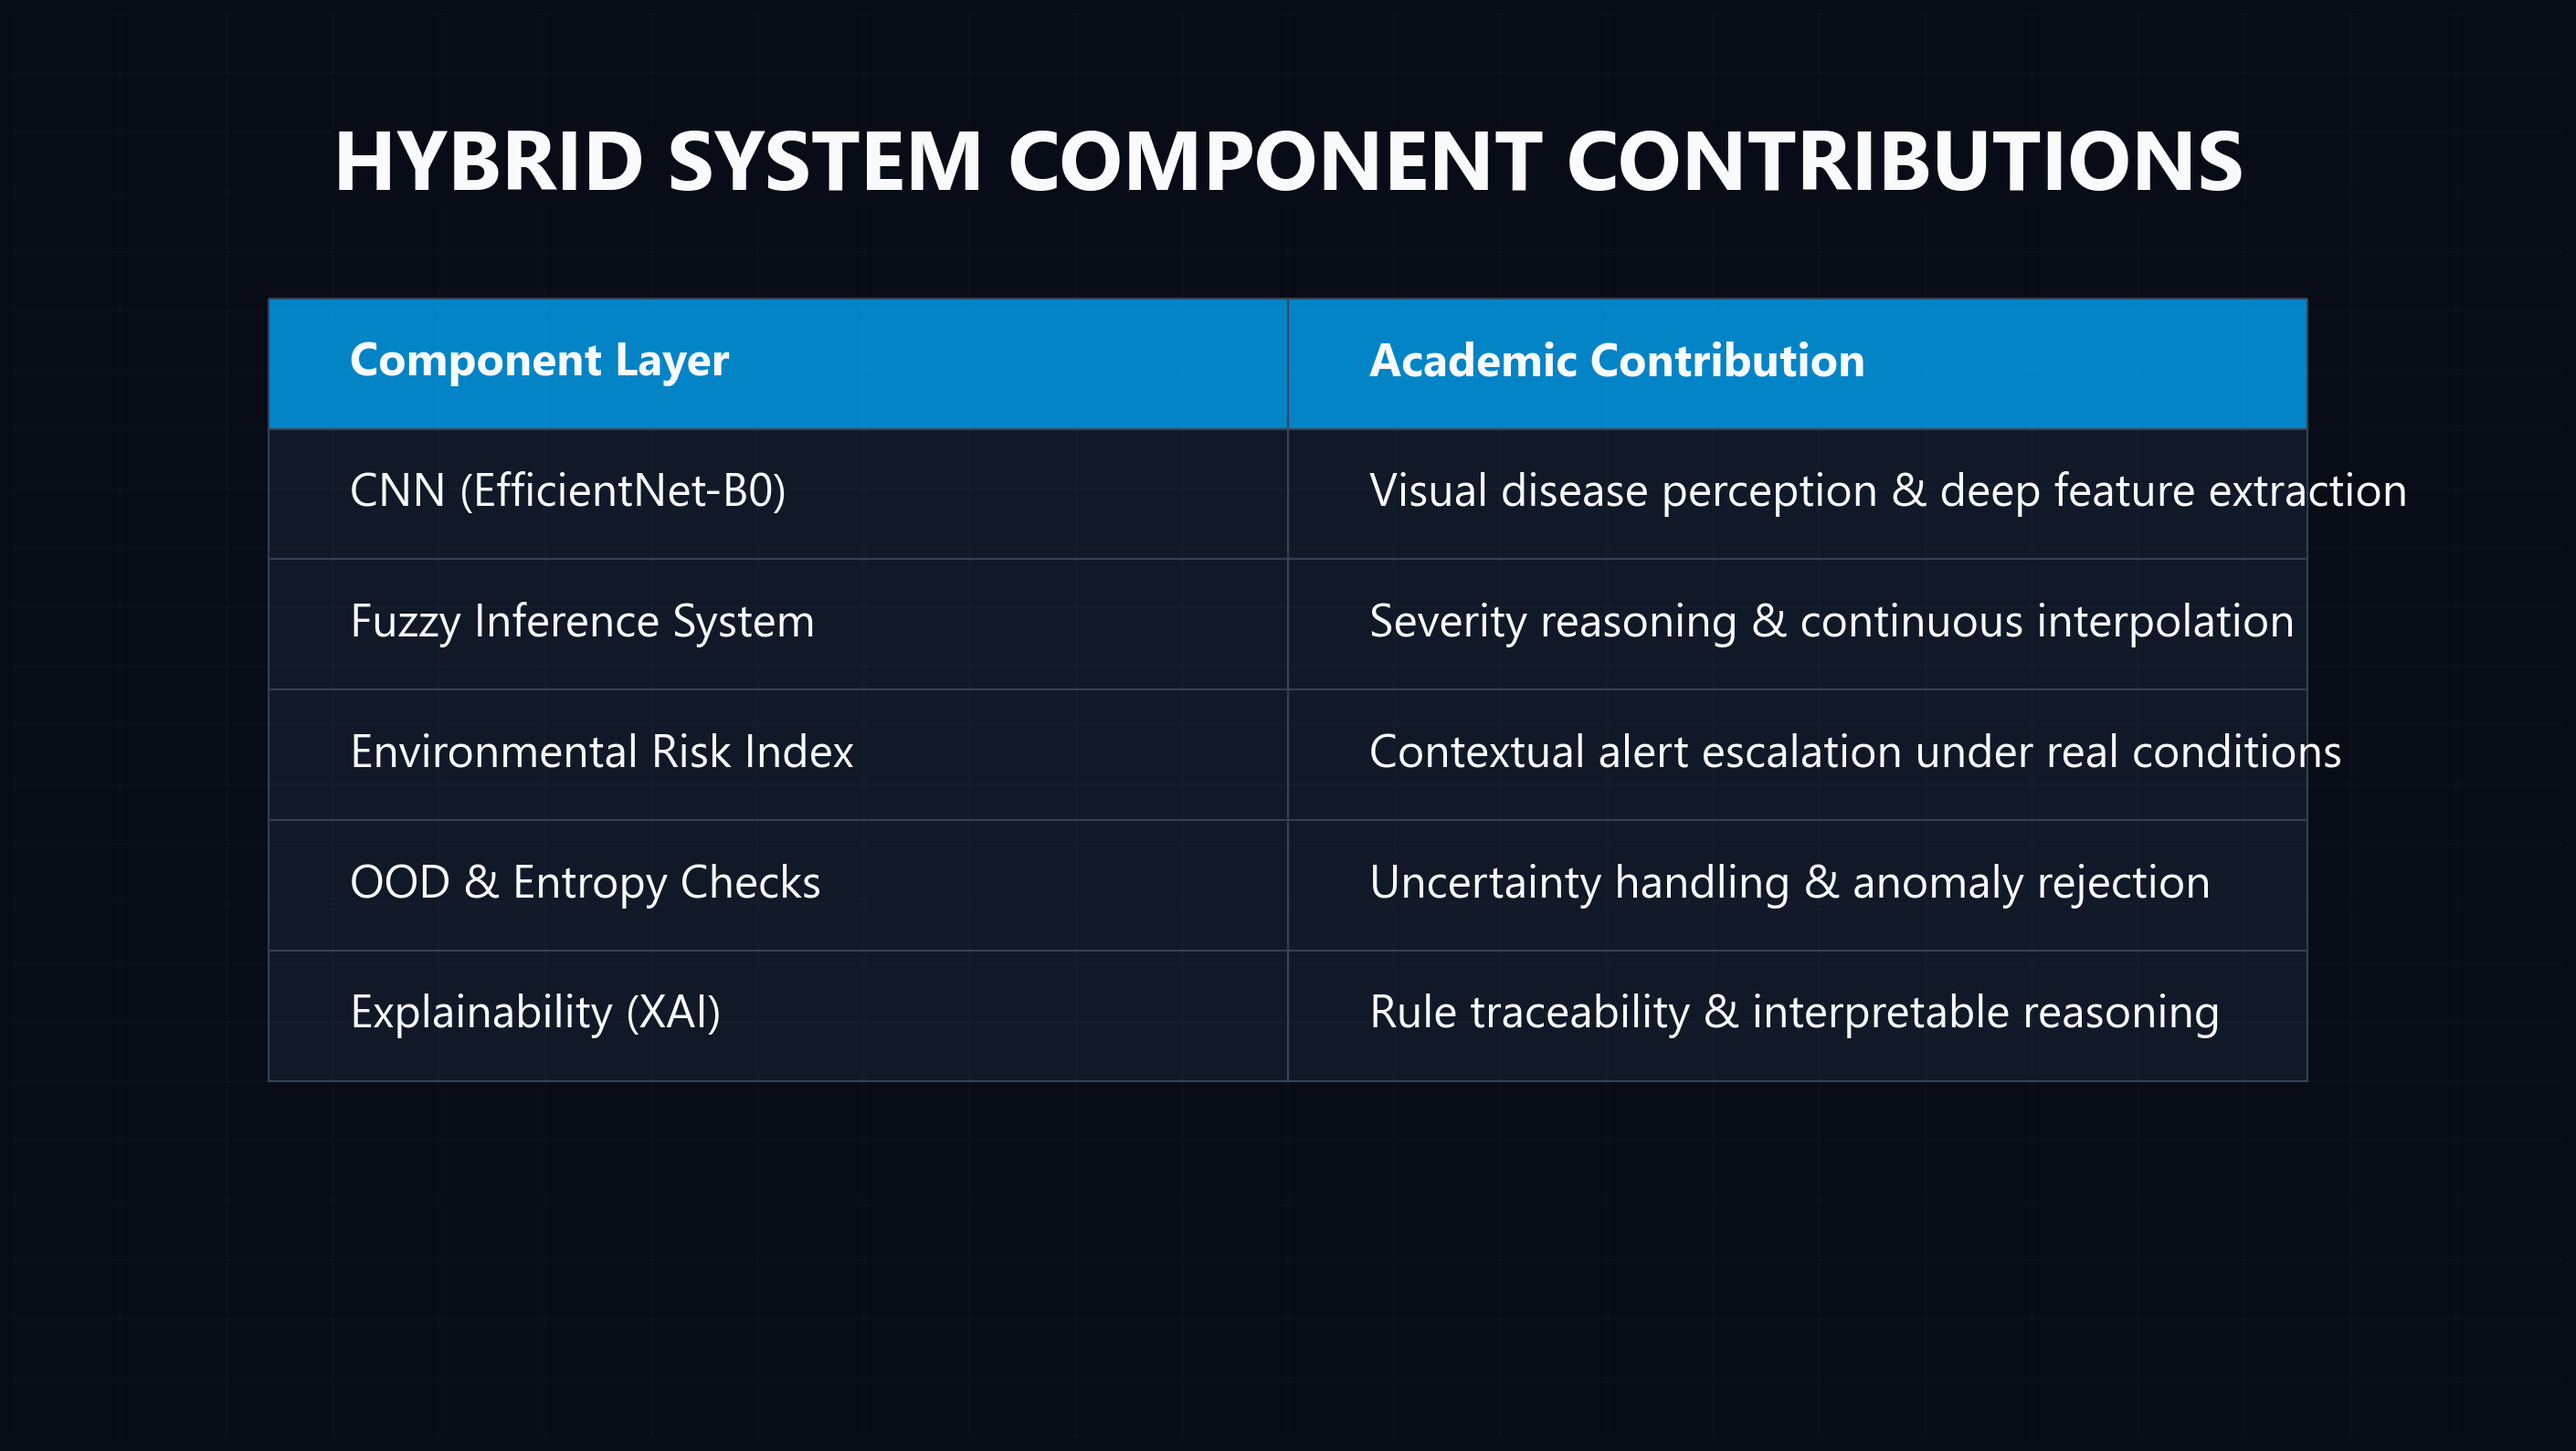
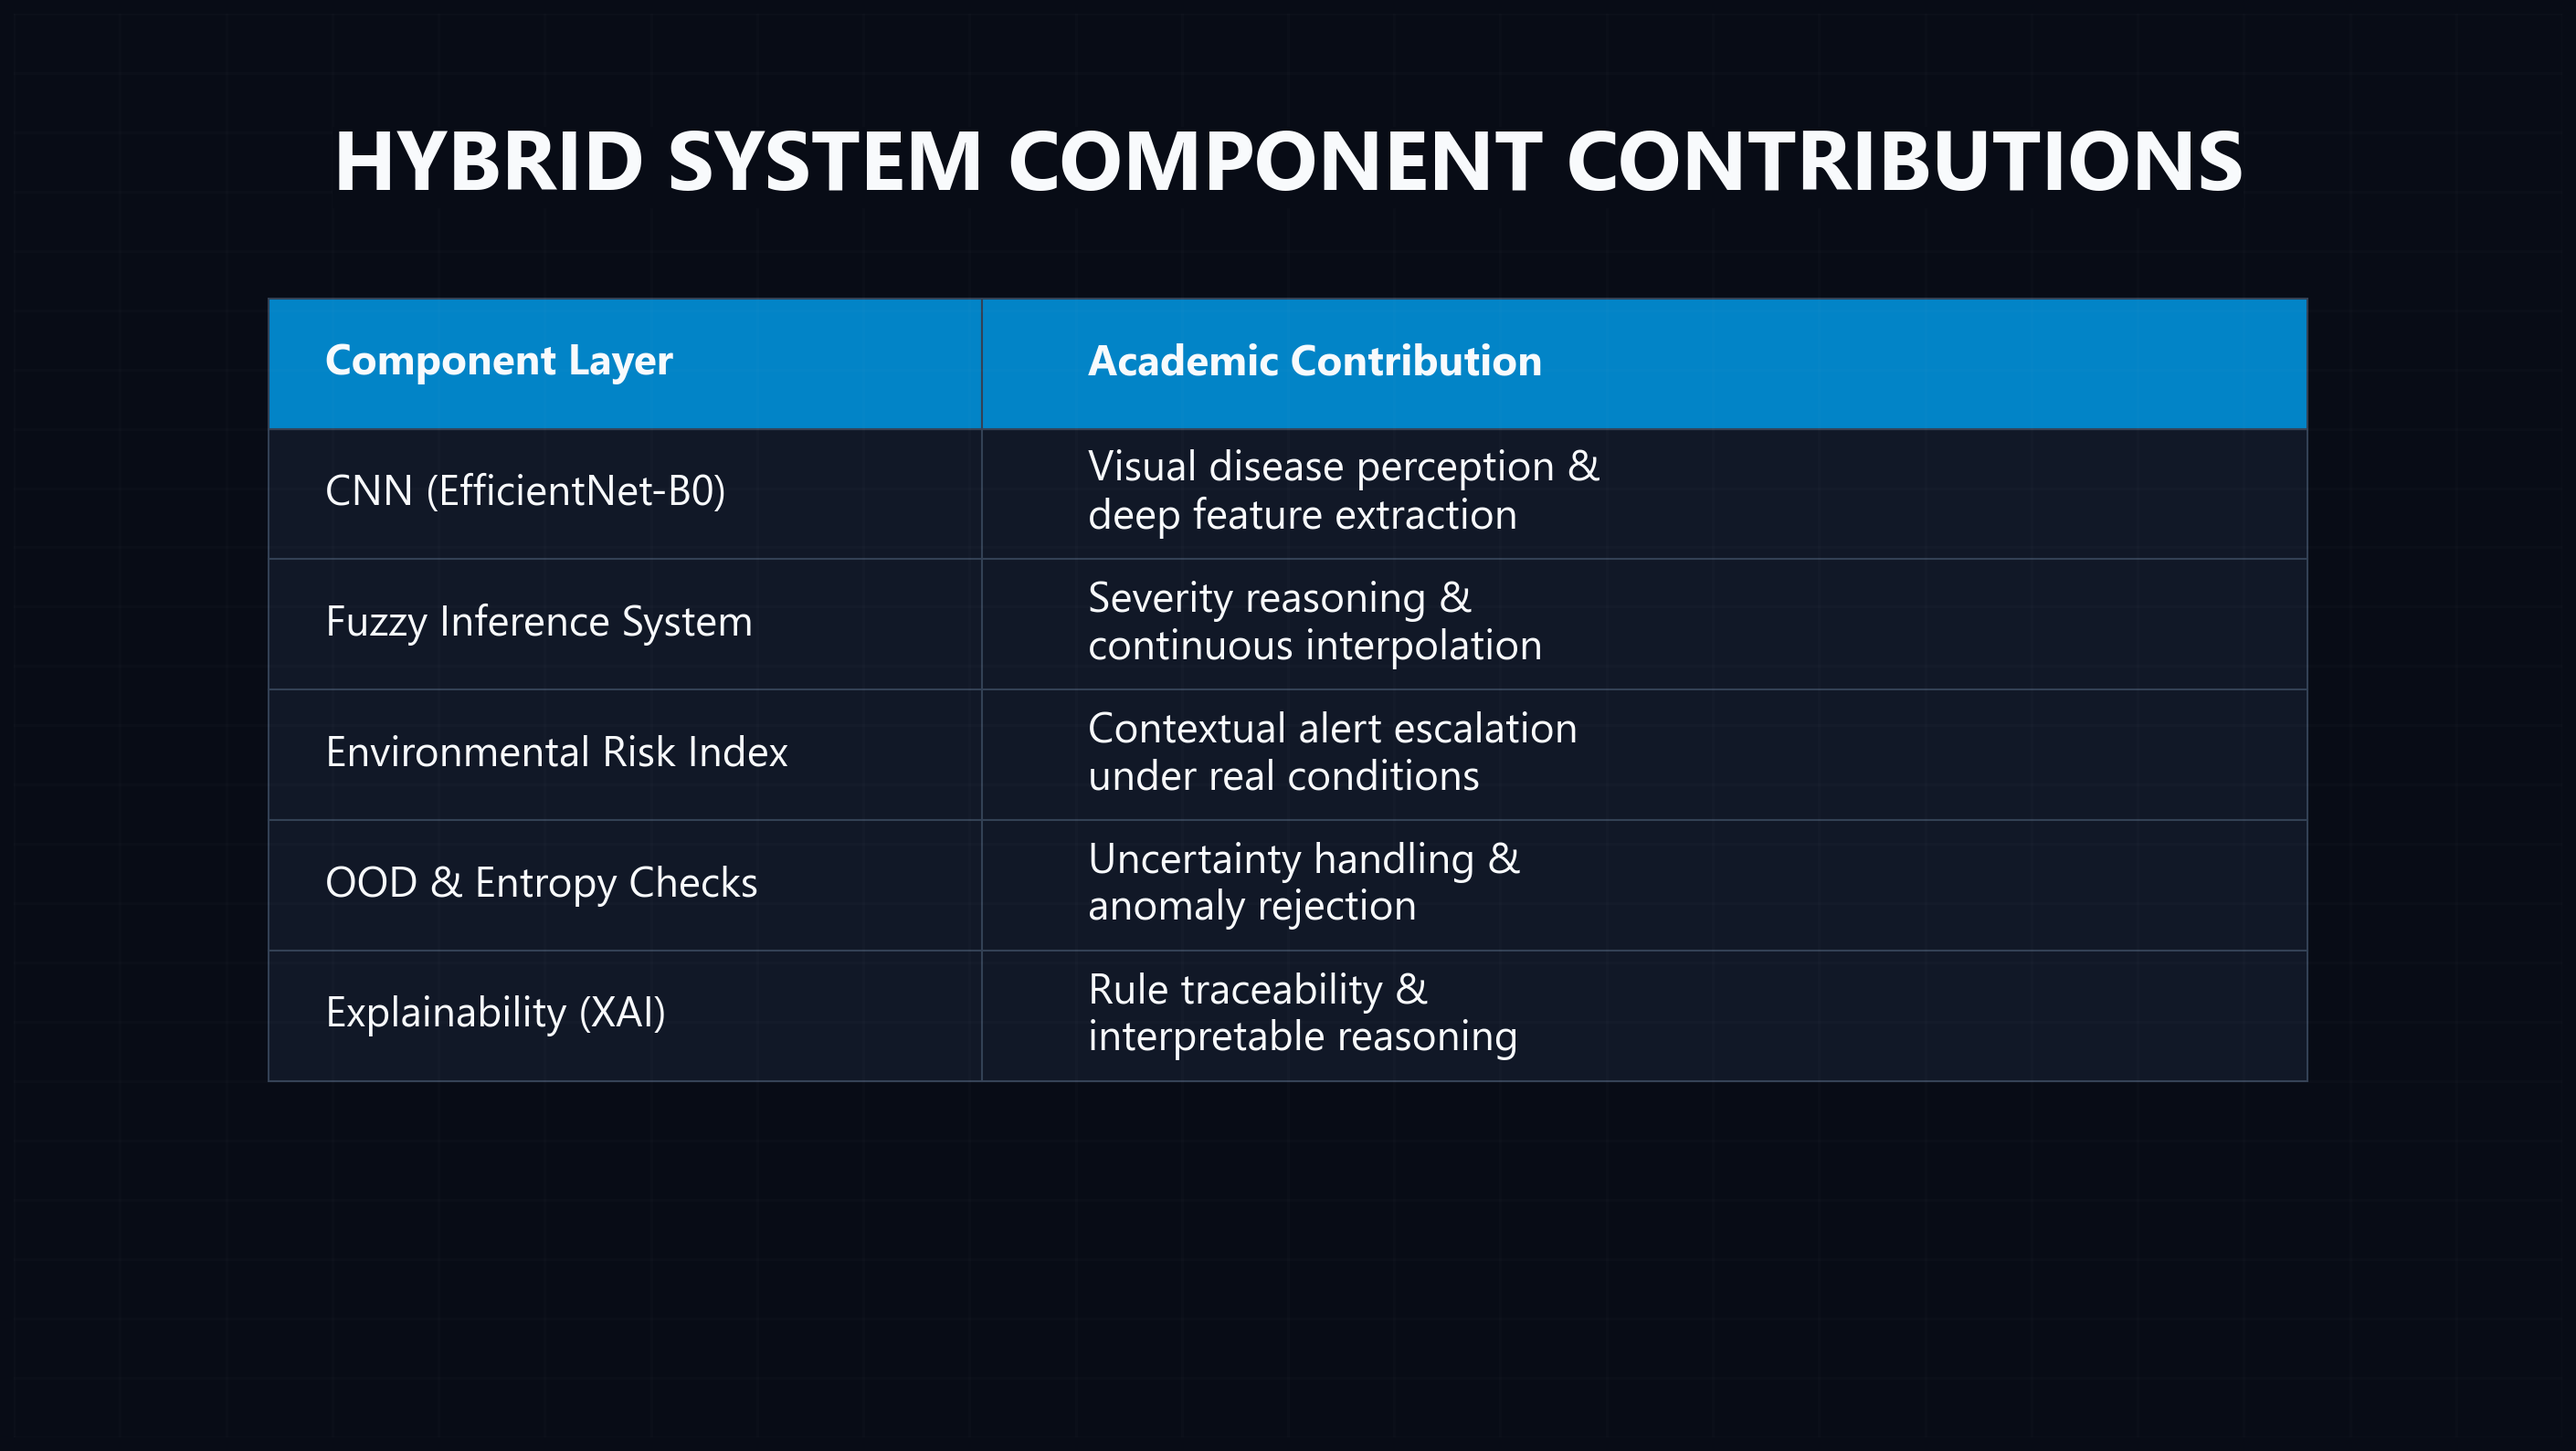
style: Fix table text overflow in fig_10 and fig_05, fix bar chart axis overlapping title in fig_09

diff --git a/scripts/generate_academic_figures.py b/scripts/generate_academic_figures.py
@@ -200,14 +200,14 @@ def fig_05_rule_activation():
     
     table_data = [
         ["Rule ID", "Fuzzy Condition", "Firing Strength (w)", "Contribution %"],
-        ["R1", "IF CNN Severe Medium THEN Moderate", "0.72", "48%"],
-        ["R2", "IF Humidity Wet THEN ERI High", "0.61", "32%"],
-        ["R3", "IF Mild High THEN Mild", "0.21", "20%"]
+        ["R1", "IF CNN Severe Medium\nTHEN Moderate", "0.72", "48%"],
+        ["R2", "IF Humidity Wet\nTHEN ERI High", "0.61", "32%"],
+        ["R3", "IF Mild High\nTHEN Mild", "0.21", "20%"]
     ]
     
-    table = ax.table(cellText=table_data, loc='center', cellLoc='left', bbox=[0.1, 0.35, 0.8, 0.45])
+    table = ax.table(cellText=table_data, colWidths=[0.12, 0.44, 0.22, 0.22], loc='center', cellLoc='center', bbox=[0.05, 0.30, 0.9, 0.50])
     table.auto_set_font_size(False)
-    table.set_fontsize(24)
+    table.set_fontsize(22)
     
     for (i, j), cell in table.get_celld().items():
         cell.PAD = 0.08
@@ -292,7 +292,7 @@ def fig_09_error_analysis():
     values = [2, 1, 0]
     colors = [WARNING_ORANGE, CYAN_GLOW, EMERALD]
     
-    ax_bar = fig.add_axes([0.2, 0.35, 0.6, 0.45])
+    ax_bar = fig.add_axes([0.2, 0.25, 0.6, 0.50])
     ax_bar.set_facecolor(BG_COLOR)
     bars = ax_bar.bar(labels, values, color=colors, width=0.4)
     ax_bar.set_ylabel("Number of Occurrences", color=TEXT_MAIN, fontsize=22)
@@ -313,16 +313,16 @@ def fig_10_system_contributions():
     
     table_data = [
         ["Component Layer", "Academic Contribution"],
-        ["CNN (EfficientNet-B0)", "Visual disease perception & deep feature extraction"],
-        ["Fuzzy Inference System", "Severity reasoning & continuous interpolation"],
-        ["Environmental Risk Index", "Contextual alert escalation under real conditions"],
-        ["OOD & Entropy Checks", "Uncertainty handling & anomaly rejection"],
-        ["Explainability (XAI)", "Rule traceability & interpretable reasoning"]
+        ["CNN (EfficientNet-B0)", "Visual disease perception &\ndeep feature extraction"],
+        ["Fuzzy Inference System", "Severity reasoning &\ncontinuous interpolation"],
+        ["Environmental Risk Index", "Contextual alert escalation\nunder real conditions"],
+        ["OOD & Entropy Checks", "Uncertainty handling &\nanomaly rejection"],
+        ["Explainability (XAI)", "Rule traceability &\ninterpretable reasoning"]
     ]
     
-    table = ax.table(cellText=table_data, loc='center', cellLoc='left', bbox=[0.1, 0.25, 0.8, 0.55])
+    table = ax.table(cellText=table_data, colWidths=[0.35, 0.65], loc='center', cellLoc='left', bbox=[0.1, 0.25, 0.8, 0.55])
     table.auto_set_font_size(False)
-    table.set_fontsize(24)
+    table.set_fontsize(22)
     
     for (i, j), cell in table.get_celld().items():
         cell.PAD = 0.08
